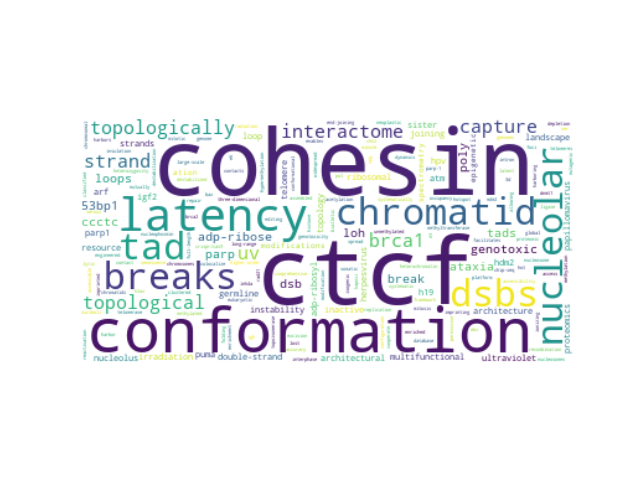
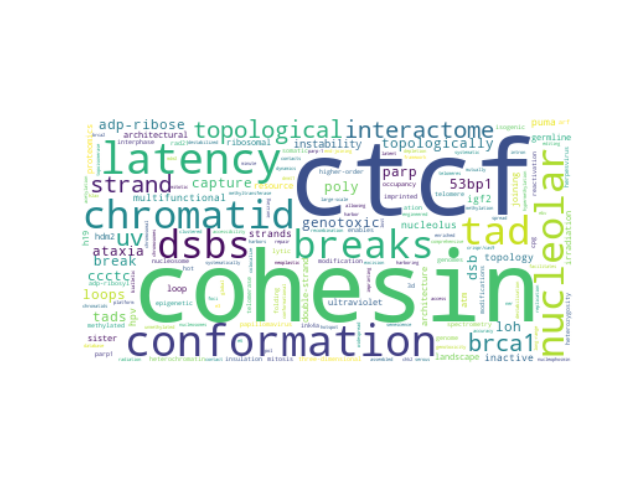
added fig

Changed region(s): [[0.125, 0.25, 0.9062, 0.75]]

diff --git a/utils/words2cloud.py b/utils/words2cloud.py
@@ -83,7 +83,7 @@ def __get_word_cloud(words, weights, output_file):
     for word, weight in zip(words, weights):
         frequencies.setdefault(word, 0.)
         frequencies[word] += weight
-    wc = WordCloud(background_color="white", relative_scaling=0)
+    wc = WordCloud(background_color="white", relative_scaling=1)
     wc.generate_from_frequencies(frequencies)
     plt.imshow(wc, interpolation="bilinear")
     plt.axis("off")
